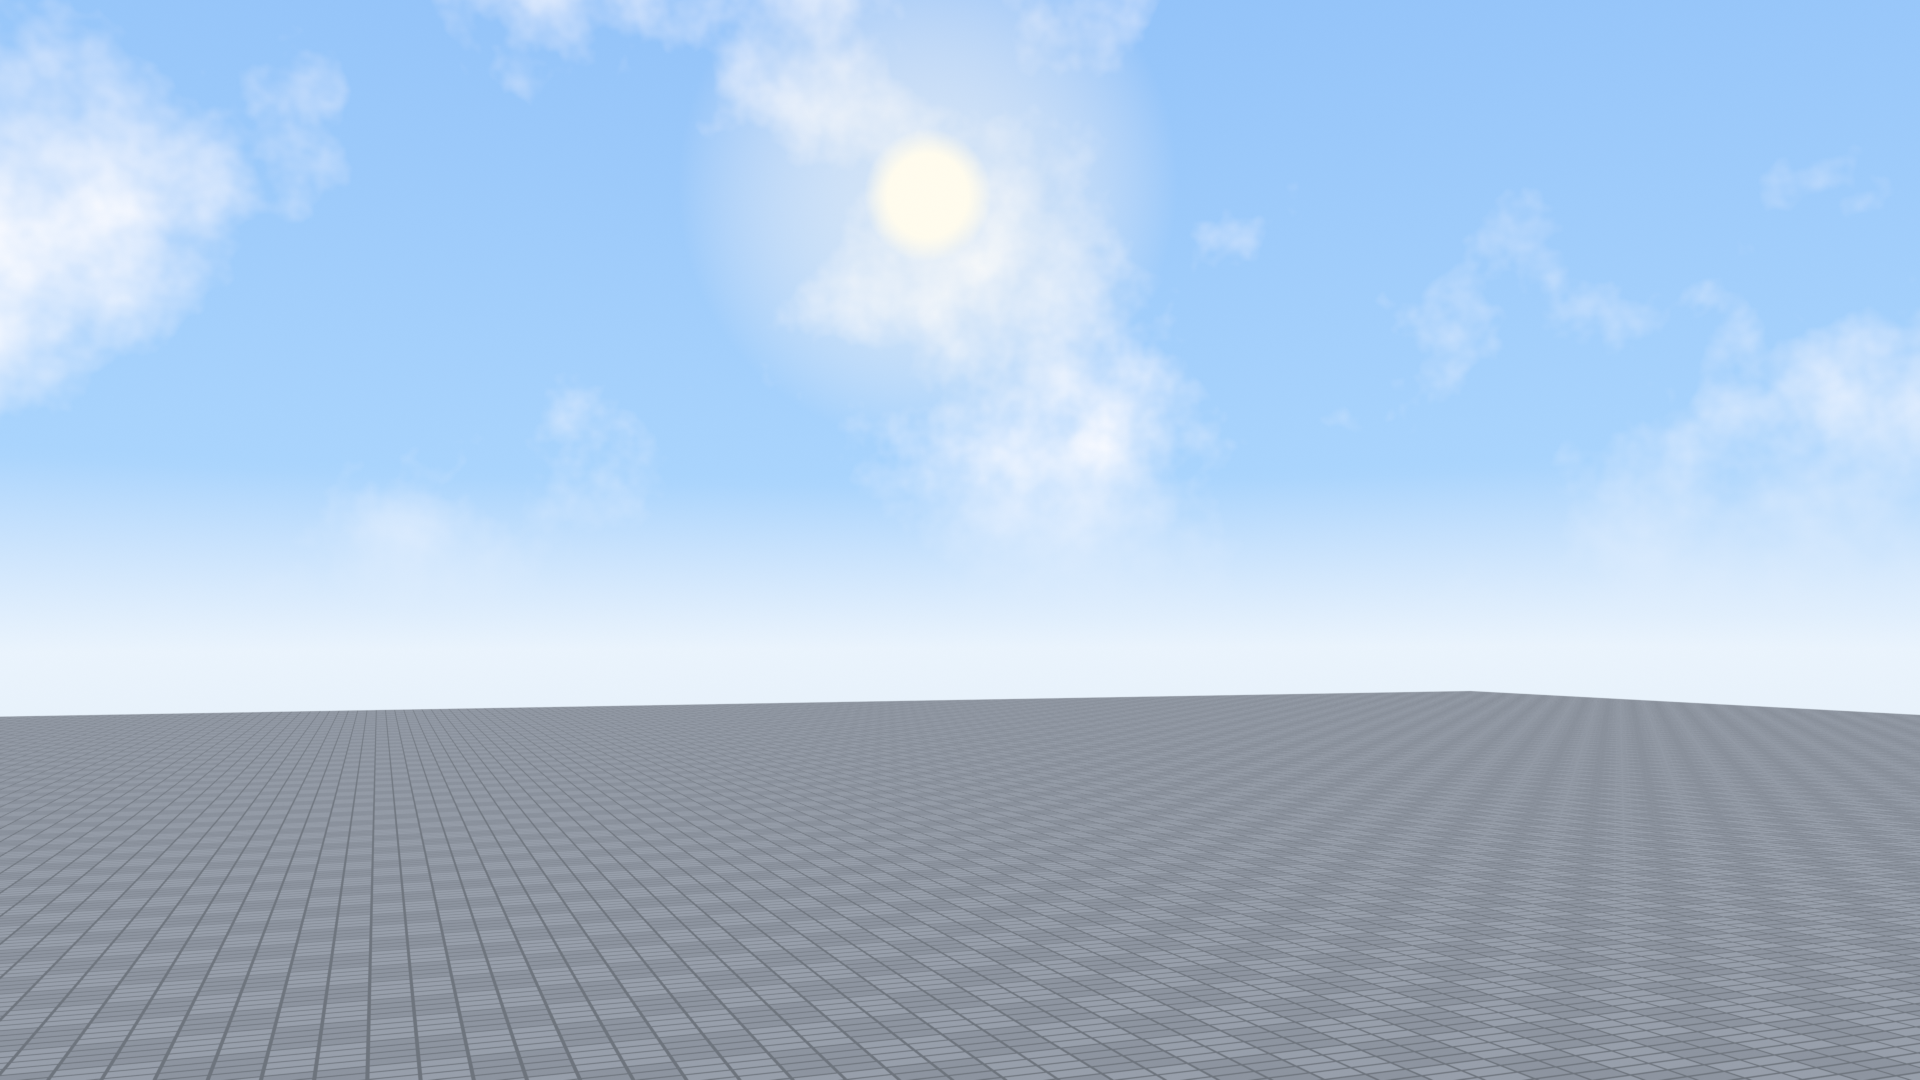
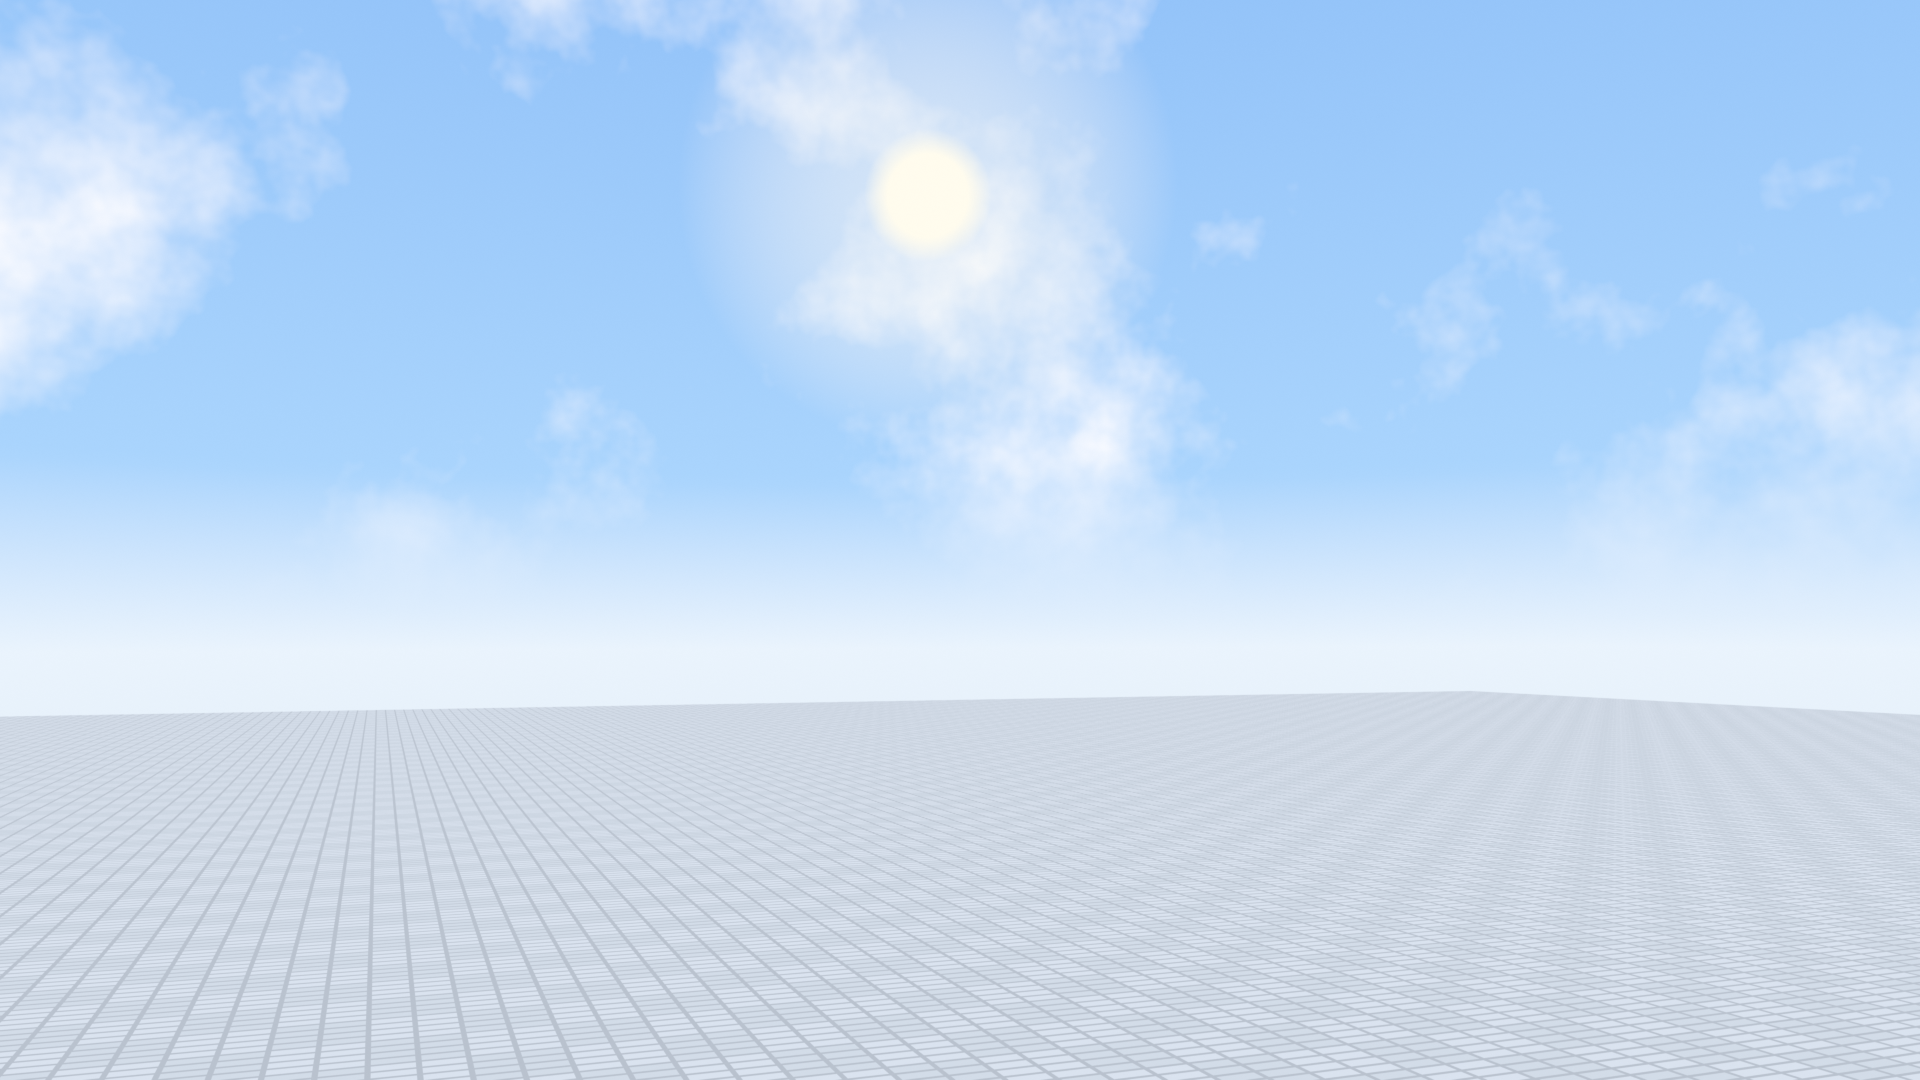
Restyle baseplate as white tiles
White ceramic tiles with light grey grout and a semi-gloss finish;
brighter sun so the tiles read white rather than sky-tinted.

diff --git a/build_scene.py b/build_scene.py
@@ -38,16 +38,16 @@ m, nt = new_mat("BaseplateMat")
 tc = nt.nodes.new("ShaderNodeTexCoord")
 checker = nt.nodes.new("ShaderNodeTexChecker")
 checker.inputs["Scale"].default_value = 0.25            # 4-stud tiles
-checker.inputs["Color1"].default_value = (0.50, 0.51, 0.53, 1)
-checker.inputs["Color2"].default_value = (0.42, 0.43, 0.45, 1)
+checker.inputs["Color1"].default_value = (0.94, 0.94, 0.95, 1)   # white tile
+checker.inputs["Color2"].default_value = (0.86, 0.87, 0.88, 1)   # slightly off-white
 brick = nt.nodes.new("ShaderNodeTexBrick")
 brick.offset = 0.0                                       # straight grid, not staggered
 brick.inputs["Scale"].default_value = 0.25
-brick.inputs["Mortar Size"].default_value = 0.02
+brick.inputs["Mortar Size"].default_value = 0.03
 brick.inputs["Mortar Smooth"].default_value = 0.0
-brick.inputs["Mortar"].default_value = (0.22, 0.23, 0.24, 1)
+brick.inputs["Mortar"].default_value = (0.62, 0.63, 0.65, 1)      # light grey grout
 bsdf = nt.nodes.new("ShaderNodeBsdfPrincipled")
-bsdf.inputs["Roughness"].default_value = 0.75
+bsdf.inputs["Roughness"].default_value = 0.55                      # glossy ceramic look
 out = nt.nodes.new("ShaderNodeOutputMaterial")
 nt.links.new(tc.outputs["Object"], checker.inputs["Vector"])
 nt.links.new(tc.outputs["Object"], brick.inputs["Vector"])
@@ -150,7 +150,7 @@ sky.data.materials.append(m)
 bpy.ops.object.light_add(type="SUN", location=(0, 0, 50))
 sun = bpy.context.object
 sun.name = "Sun"
-sun.data.energy = 6.0
+sun.data.energy = 9.0
 sun.data.color = (1.0, 0.97, 0.9)
 sun.data.angle = math.radians(1.5)
 # a sun lamp shines along its local -Z; aim -Z at -SUN_DIR so light comes FROM the sun disc
@@ -161,7 +161,7 @@ scene.world = world
 world.use_nodes = True
 bg = world.node_tree.nodes["Background"]
 bg.inputs["Color"].default_value = (0.75, 0.82, 0.92, 1)
-bg.inputs["Strength"].default_value = 0.8
+bg.inputs["Strength"].default_value = 1.0
 
 # ------------------------------------------------------------------ camera
 bpy.ops.object.camera_add(location=(-60, -120, 18))

diff --git a/README.md b/README.md
@@ -2,7 +2,7 @@
 
 A Roblox-style starter scene modelled in Blender: a six-faced **skybox** with a
 procedural sky (height gradient, noise clouds, sun disc) and a 512x512 stud
-**baseplate** with the classic 4-stud tile grid.
+**baseplate** finished as glossy white 4-stud ceramic tiles with light grout.
 
 ![render](renders/scene.png)
 
